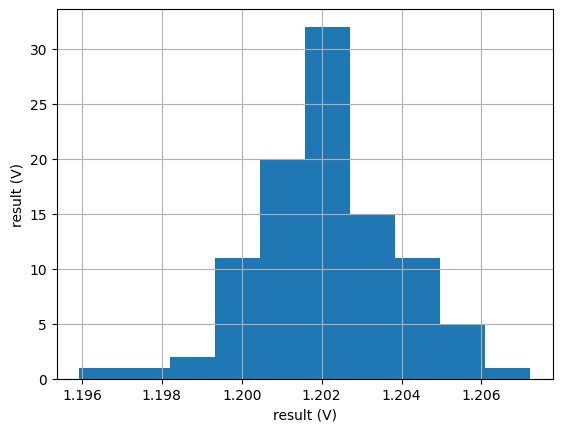
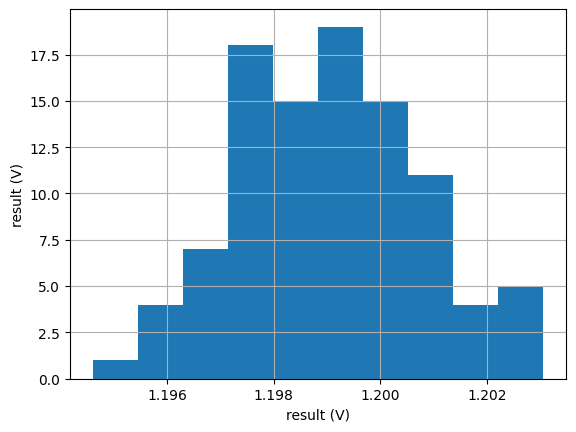
[misc] updated readme results

diff --git a/README.md b/README.md
@@ -9,13 +9,14 @@ The circuit specifications are listed below, but they are getting better day by 
 
 | Measure                | Value   | Unit   |
 | ---------------------- | ------- | ------ |
-| Reference Voltage      | 1202    | mV     |
+| Reference Voltage      | 1199    | mV     |
 | Initial Accuracy (3s)  | .4012   | %      |
 | Current Consumption    | ~2,2    | uA     |
-| PSRR                   | 73,5    | dB     |
+| PSRR                   | 81      | dB     |
 | Temperature Coeff.     | 35,5    | ppm/°C |
 | Line Regulation        | 0.1519  | %      |
 | Load Regulation        | 0.0345  | %      |
+| Startup Time           | ~25     | us     |
 
 The temperature behavior is already adjusted, but using NFET1.8 transistors, the temperature coefficient specification of 30 ppm/°C will probably not be reached.
 
@@ -25,7 +26,12 @@ The image belows that the minimum voltage for the circuit to start operating as 
 
 ![Reference Voltage vs Supply Voltage](plots/schematic/vref_vs_vsup.png)
 
-Finally, process variation seem to be under control, the histogram below shows the variation range after
+Process variation seem to be under control, the histogram below shows the variation range after
 100 iterations of a monte carlo simulation.
 
 ![Reference Voltage vs Process Variation](plots/schematic/vref_vs_process.png)
+
+The startup time is around 25 us after the enable pin is pulled low, as can be seen in the
+plot below. For this simulation, enable fall time was 100ns.
+
+![Startup Time](plots/schematic/vref_startup.png)
